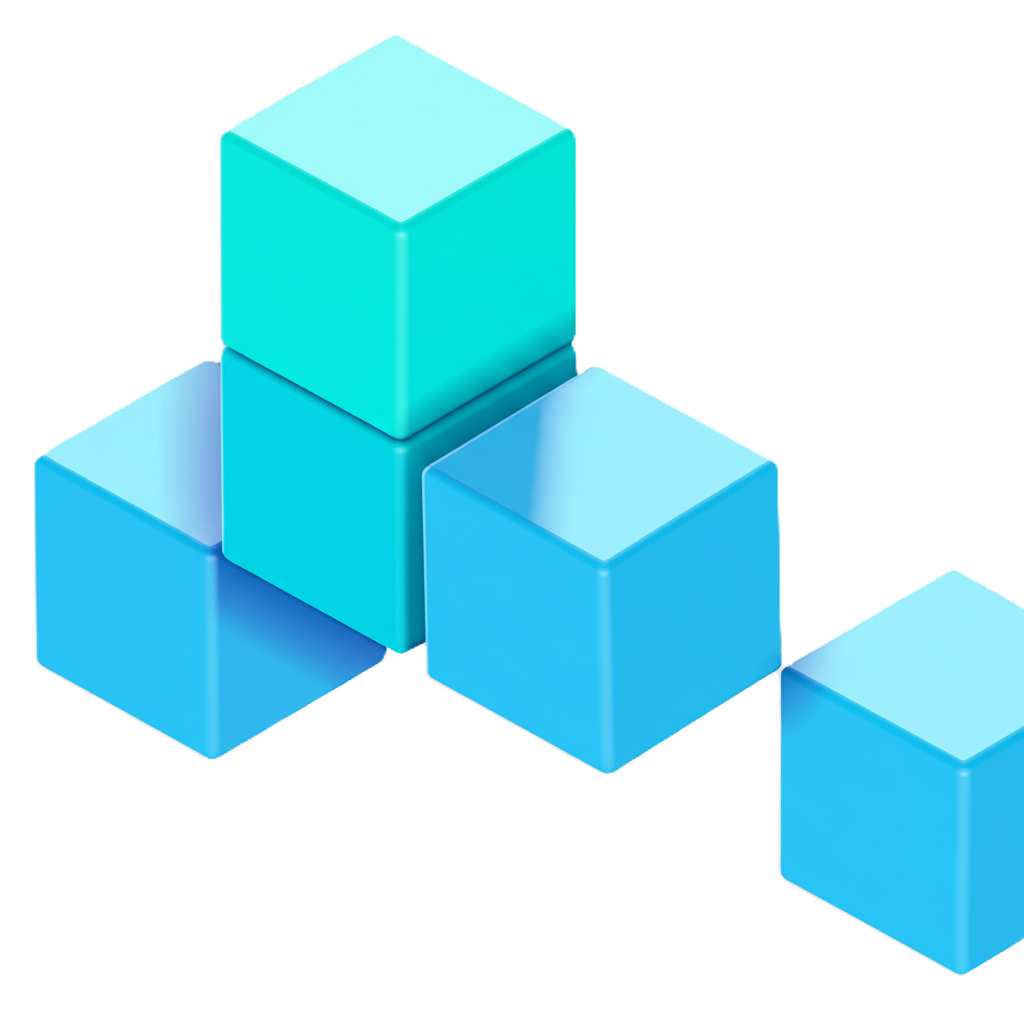
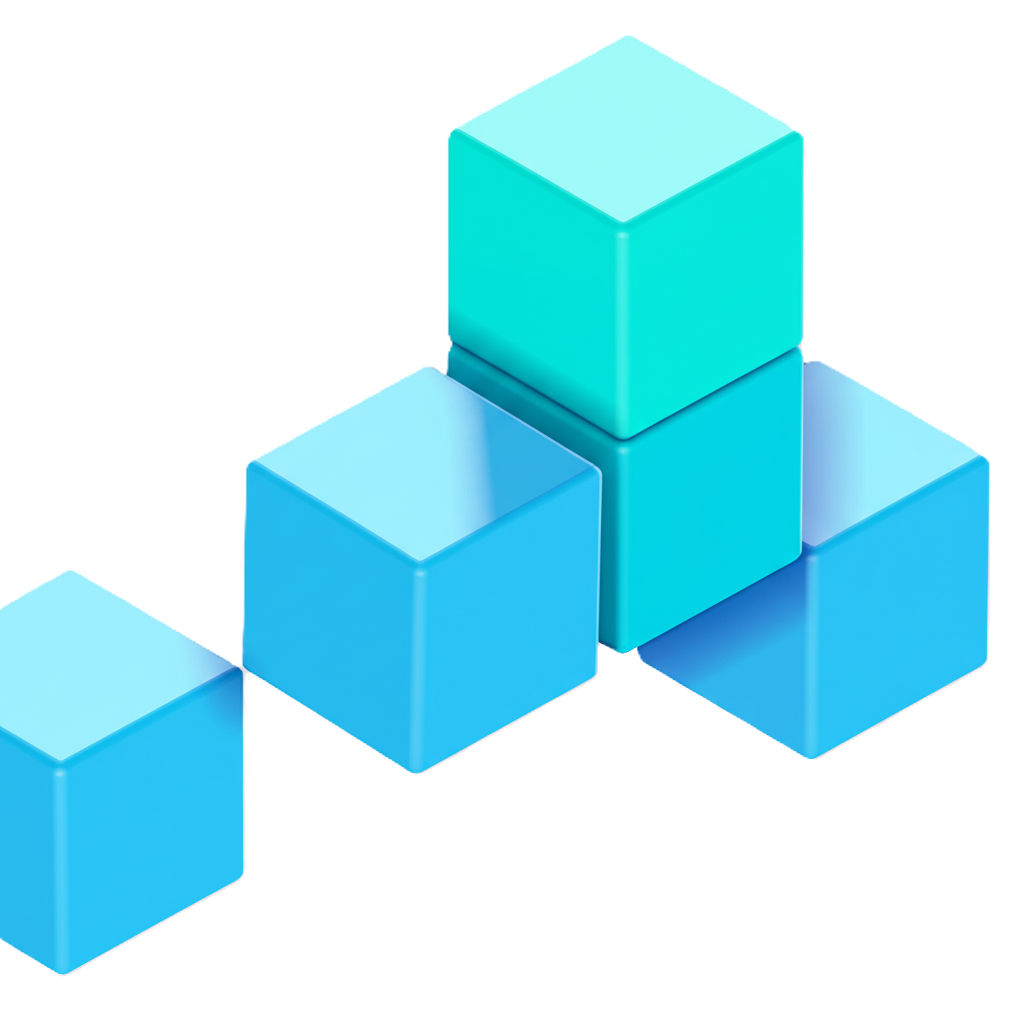
again

diff --git a/src/pages/Technology.tsx b/src/pages/Technology.tsx
@@ -1,10 +1,51 @@
-import { useEffect } from 'react'
+import { useEffect, useState } from 'react'
 import BackgroundBlobs from '../components/BackgroundBlobs.tsx'
 import '../styles/css/technology.css'
 
 const Technology = () => {
+  const [videoScale, setVideoScale] = useState(60)
+
   useEffect(() => {
     document.title = 'Varosync - Technology'
+  }, [])
+
+  useEffect(() => {
+    const handleScroll = () => {
+      const videoElement = document.getElementById('tech-video')
+      if (!videoElement) return
+
+      // Skip animation on mobile devices
+      const isMobile = window.innerWidth <= 768
+      if (isMobile) {
+        setVideoScale(90) // Fixed size on mobile
+        return
+      }
+
+      const rect = videoElement.getBoundingClientRect()
+      const windowHeight = window.innerHeight
+      
+      // Calculate when video is in view and when it reaches the top
+      const isInView = rect.bottom > 0 && rect.top < windowHeight
+      
+      if (isInView) {
+        // Calculate progress: 0 when video first enters view, 1 when top reaches header area
+        const progress = Math.max(0, Math.min(1, (windowHeight - rect.top) / windowHeight))
+        
+        // Interpolate between 60% and 90% based on scroll progress
+        const newScale = 60 + (30 * progress)
+        setVideoScale(newScale)
+      }
+    }
+
+    window.addEventListener('scroll', handleScroll)
+    window.addEventListener('resize', handleScroll) // Handle screen size changes
+    // Call once to set initial state
+    handleScroll()
+
+    return () => {
+      window.removeEventListener('scroll', handleScroll)
+      window.removeEventListener('resize', handleScroll)
+    }
   }, [])
 
   const fontStyle = { fontSize: '1.5rem', fontWeight: '300', fontFamily: '-apple-system, BlinkMacSystemFont, "Segoe UI", Roboto, Oxygen, Ubuntu, Cantarell, sans-serif' };
@@ -35,6 +76,30 @@ const Technology = () => {
               At the heart of our research and development lies a powerful, dual-pronged philosophy: to first understand the intricate complexity of human biology with unprecedented clarity, and then to rationally design and develop therapeutics of remarkable precision. We have cultivated a technology ecosystem that converges predictive, AI-driven science with a versatile, multi-modal therapeutic engine.
             </p>
           </div>
+        </div>
+      </section>
+
+      {/* Video Section */}
+      <section className="tech-video-section">
+        <div className="tech-video-container">
+          <video
+            id="tech-video"
+            autoPlay
+            muted
+            loop
+            playsInline
+            style={{
+              width: `${videoScale}%`,
+              height: 'auto',
+              borderRadius: '20px',
+              display: 'block',
+              margin: '0 auto',
+              maxWidth: '100%'
+            }}
+          >
+            <source src="/assets/videos/outputech.mp4" type="video/mp4" />
+            Your browser does not support the video tag.
+          </video>
         </div>
       </section>
 

diff --git a/src/components/BackgroundBlobs.tsx b/src/components/BackgroundBlobs.tsx
@@ -57,7 +57,7 @@ const BackgroundBlobs = ({ page }: BackgroundBlobsProps) => {
 
         } else if (page === 'technology') {
           if (index === 0) {
-            style.top = '99%';
+            style.top = '230%';
             style.left = '0%';
             style.width = 'clamp(200px, 40vw, 500px)';
           } else if (index === 1) {
@@ -65,8 +65,8 @@ const BackgroundBlobs = ({ page }: BackgroundBlobsProps) => {
             style.right = '0%';
             style.width = 'clamp(200px, 40vw, 500px)';
           } else if (index === 2) {
-            style.top = '187%';
-            style.right = '0%';
+            style.top = '86%';
+            style.left = '0%';
             style.width = 'clamp(200px, 40vw, 350px)';
           }
 
@@ -132,7 +132,7 @@ const BackgroundBlobs = ({ page }: BackgroundBlobsProps) => {
           
           /* Mobile positioning for technology page blobs */
           .technology-blob-1 {
-            top: 99% !important;
+            top: 93% !important;
           }
           
           .technology-blob-2 {
@@ -140,12 +140,14 @@ const BackgroundBlobs = ({ page }: BackgroundBlobsProps) => {
           }
           
           .technology-blob-3 {
-            top: 201% !important;
+            top: 233.5% !important;
+            left: -12.5% !important;
           }
           
           /* Mobile positioning for company page blobs */
           .company-blob-1 {
-            top: 173% !important;
+            top: 161% !important;
+            right: -6% !important;
           }
           
           .company-blob-2 {

diff --git a/src/pages/Company.tsx b/src/pages/Company.tsx
@@ -36,7 +36,7 @@ const Company = () => {
               Varosync was founded with a singular, clear-sighted ambition: to deliver transformative medicines that address the underlying drivers of disease. We believe the next frontier in human health lies in understanding and modulating the essential, dynamic processes that govern cellular function. Our purpose is to translate this profound biological understanding into a new generation of therapeutics, offering hope where there was none and pursuing treatments for some of the world's most challenging illnesses.
             </p>
             <p className="page-subtitle" style={{ fontSize: '1.5rem', fontWeight: '300', fontFamily: '-apple-system, BlinkMacSystemFont, "Segoe UI", Roboto, Oxygen, Ubuntu, Cantarell, sans-serif' }}>
-              Every day, with each new breakthrough, we're getting closer to achieving our ambitious mission to establish a new standard of care with the help of AI
+              Every day, with each new breakthrough, we're getting closer to achieving our ambitious mission to establish a new standard of care with the help of artificial intelligence.
             </p>
           </div>
         </div>

diff --git a/src/styles/css/technology.css b/src/styles/css/technology.css
@@ -39,6 +39,20 @@
     margin: 0;
 }
 
+/* Video section */
+.tech-video-section {
+    padding: 80px 0;
+    margin: 0 auto;
+}
+
+.tech-video-container {
+    display: flex;
+    justify-content: center;
+    align-items: center;
+    width: 100%;
+    padding: 0 20px;
+}
+
 /* Content sections */
 .tech-content-section {
     padding: 60px 0;
@@ -303,6 +317,15 @@
         padding: 0 20px;
     }
     
+    /* Video section mobile */
+    .tech-video-section {
+        padding: 40px 0;
+    }
+    
+    .tech-video-container {
+        padding: 0 10px;
+    }
+    
     /* Content 1 mobile - reset positioning */
     .tech-content-inner {
         max-width: 100%;
@@ -430,6 +453,15 @@
     
     .tech-content-block {
         padding: 0 15px;
+    }
+    
+    /* Video section mobile - small screens */
+    .tech-video-section {
+        padding: 30px 0;
+    }
+    
+    .tech-video-container {
+        padding: 0 5px;
     }
     
     .tech-split-container {
